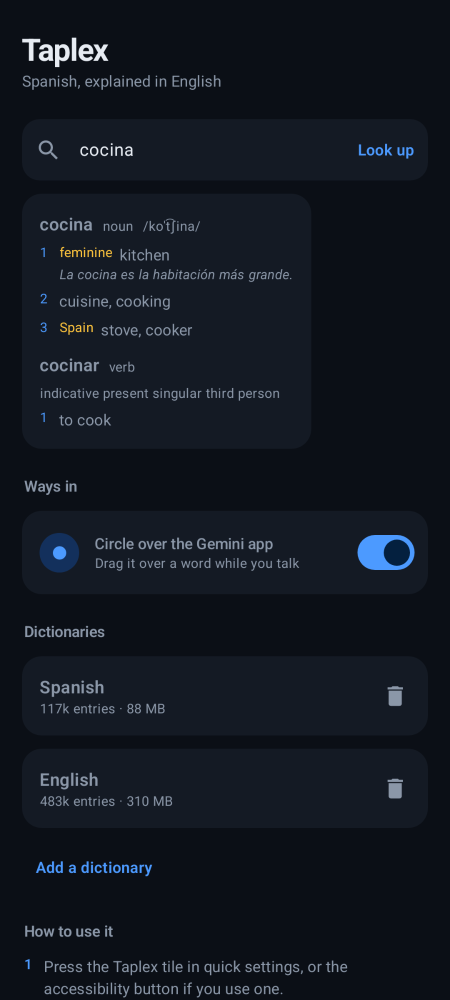
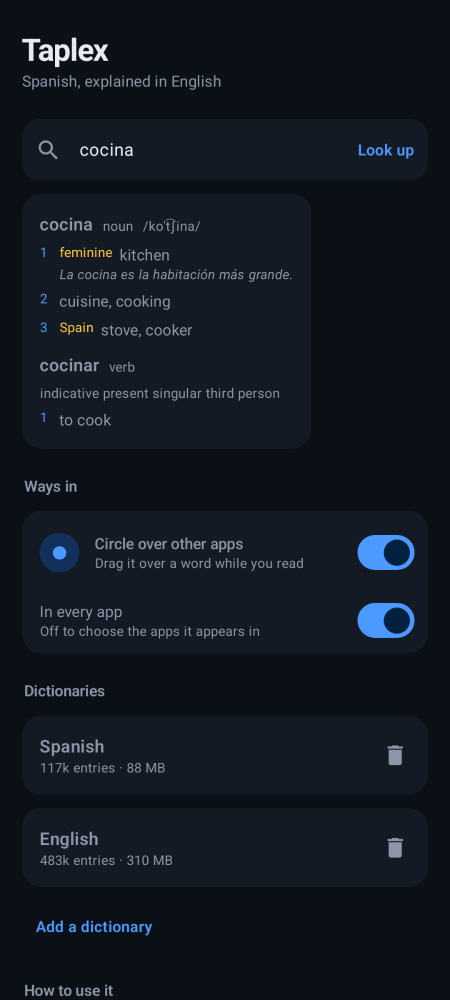
Give the app picker a picture in the book
The screen where the circle is told which apps it belongs in is a state of the home screen
like any other, and the book had no picture of it. Chosen apps at the top, the rest in
order, which is what the list is for: a phone has two hundred apps and the answer is two of
them.

Claude-Session: https://claude.ai/code/session_01PKgmfBqV4zmMFvjP79icSi

diff --git a/app/src/test/java/de/tieo/taplex/BookRenders.kt b/app/src/test/java/de/tieo/taplex/BookRenders.kt
@@ -78,8 +78,10 @@ class BookRenders {
         overlay: Boolean = true,
         installed: List<InstalledPack> = listOf(spanish),
         build: PackService.State = PackService.State.Idle,
-        hover: Boolean = false
-    ) = UiState(lookup, overlay, "en", installed, build, hover)
+        hover: Boolean = false,
+        everywhere: Boolean = true,
+        apps: List<AppChoice> = emptyList()
+    ) = UiState(lookup, overlay, "en", installed, build, hover, everywhere, apps)
 
     @Test
     fun `main screen nothing set up`() {
@@ -92,6 +94,27 @@ class BookRenders {
     fun `main screen no dictionaries`() {
         paparazzi.snapshot("main-no-dictionaries-phone") {
             TaplexTheme { TaplexScreen(state(installed = emptyList())) }
+        }
+    }
+
+    @Test
+    fun `main screen choosing which apps`() {
+        paparazzi.snapshot("main-apps-phone") {
+            TaplexTheme {
+                TaplexScreen(
+                    state(
+                        hover = true,
+                        everywhere = false,
+                        apps = listOf(
+                            AppChoice("com.google.android.apps.bard", "Gemini", chosen = true),
+                            AppChoice("com.whatsapp", "WhatsApp", chosen = true),
+                            AppChoice("com.android.chrome", "Chrome", chosen = false),
+                            AppChoice("com.google.android.gm", "Gmail", chosen = false),
+                            AppChoice("org.telegram.messenger", "Telegram", chosen = false)
+                        )
+                    )
+                )
+            }
         }
     }
 
